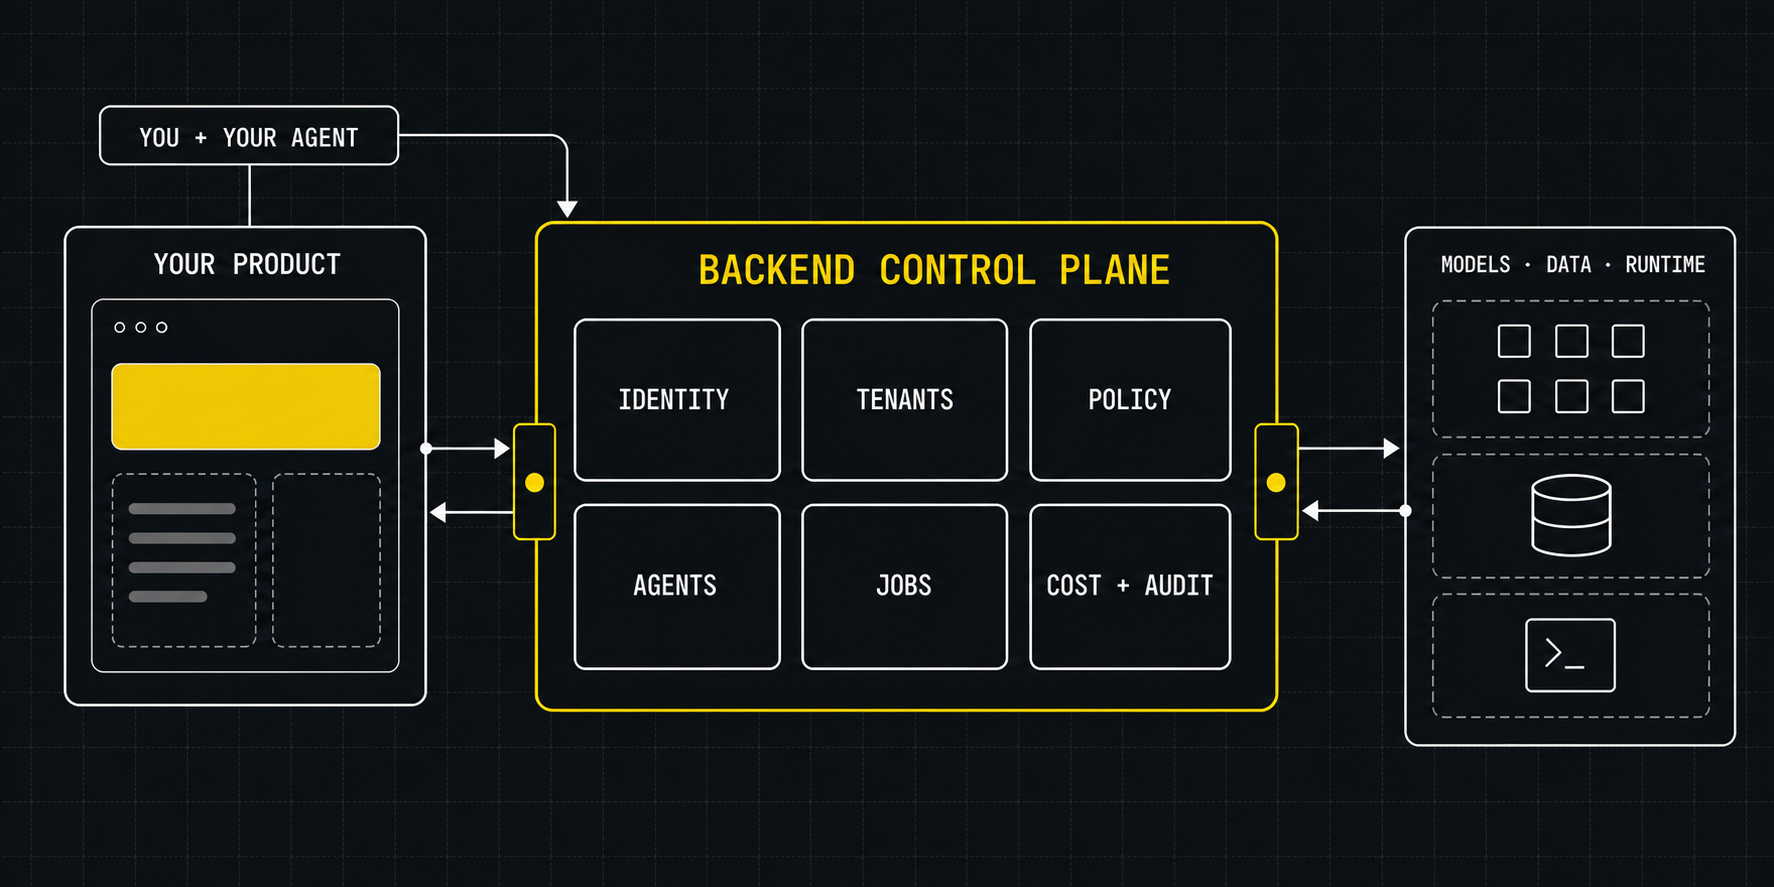
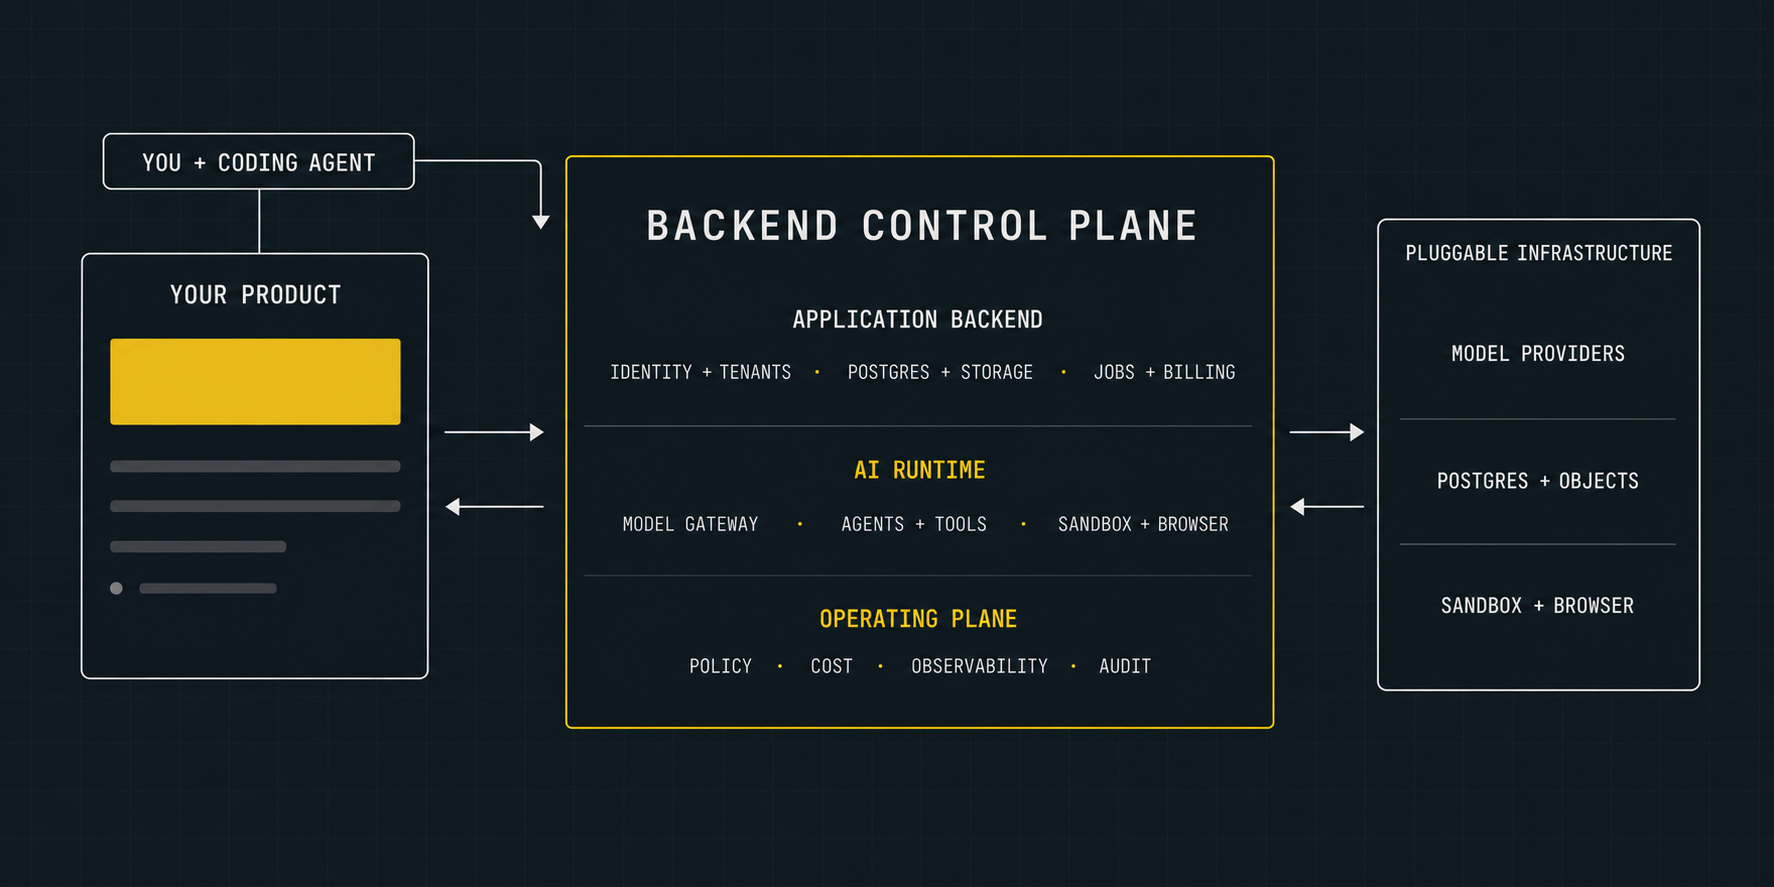
docs: clarify AI-native backend architecture

Changed region(s): [[0.031, 0.0913, 0.9921, 0.8523], [0.31, 0.7914, 0.7131, 0.8219]]

diff --git a/README.md b/README.md
@@ -22,9 +22,9 @@ AI infrastructure. Own the code, data, and deployment.
 </div>
 
 <div align="center">
-  <img src="docs/assets/readme/hero-control-plane.png" alt="A developer and coding agent connect a product through a backend control plane to models, data, and runtime infrastructure" width="1000" />
+  <img src="docs/assets/readme/hero-control-plane.png" alt="A product connects through a backend control plane with application-backend, AI-runtime, and operating-plane layers to pluggable infrastructure" width="1000" />
   <br />
-  <sub>Coding agents build the product; runtime agents power it. The control plane carries identity, policy, cost, and operations across both.</sub>
+  <sub>Application backend, AI runtime, and operating controls—one abstraction over models, data, sandboxes, and browsers.</sub>
 </div>
 
 ## Quickstart
@@ -70,7 +70,7 @@ and observability.
 | **Data**             | Postgres, pgvector, tenant-aware memory, search, realtime, migrations, storage, and an operator database browser                              |
 | **Models**           | OpenAI-compatible gateway, provider routing, streaming, embeddings, cache, guardrails, budgets, and model-level cost records                  |
 | **Agents**           | Multi-reasoner execution, streaming, approvals, cancellation, durable jobs, crons, webhooks, and run traces                                   |
-| **Agent tools**      | Isolated sandboxes, MCP servers, native tools, skills, secrets, and coding-harness discovery                                                  |
+| **Agent tools**      | Isolated sandboxes, browser adapters, MCP servers, native tools, skills, secrets, and coding-harness discovery                                |
 | **Commercial layer** | Usage metering, cost ledger, per-tenant budgets, plan entitlements, and Stripe-shaped billing                                                 |
 | **Operations**       | Admin dashboard for traffic, errors, spend, budgets, queues, runs, traces, logs, webhooks, customers, audit, integrations, and service health |
 | **Product shell**    | A customer-facing Next.js app and SupportDesk AI flow that can be replaced with your product                                                  |
@@ -225,7 +225,7 @@ and your own threat model. Start with [deployment guidance](docs/deploy.md),
 ## How it fits together
 
 <div align="center">
-  <img src="docs/assets/readme/architecture.png" alt="A backend control plane connects product APIs, SDKs, and an admin dashboard to data, agent runtime, model gateway, storage, and sandbox infrastructure" width="1000" />
+  <img src="docs/assets/readme/architecture.png" alt="A layered backend control plane connects product APIs, SDKs, and an admin dashboard to data, models, agents, tools, sandbox, and browser infrastructure" width="1000" />
 </div>
 
 Every app-level model call should go through `/api/v1/llm/*`. Direct provider
